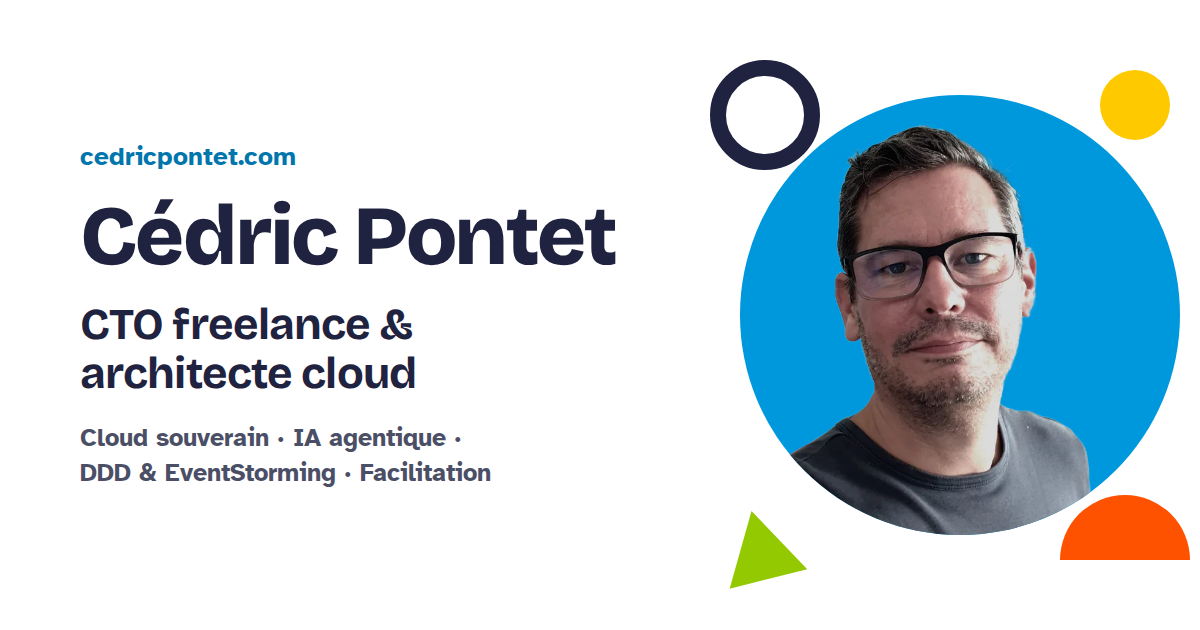
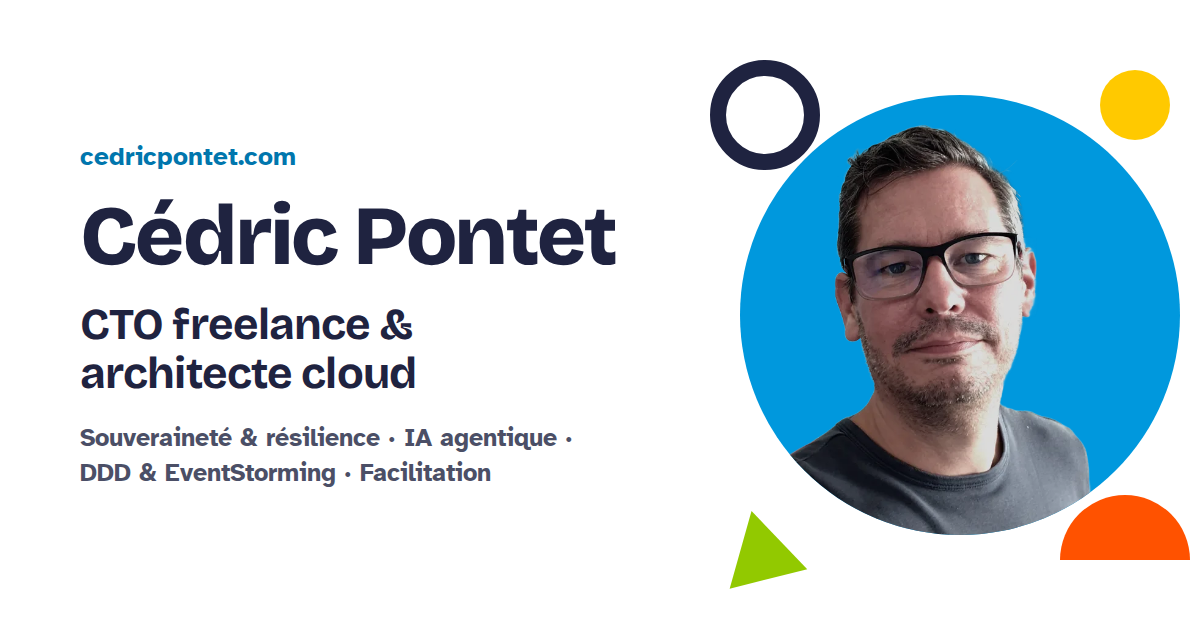
content: sovereignty & resilience wording, factory on About, Service JSON-LD

Changed region(s): [[0.0617, 0.6635, 0.4625, 0.7238]]

diff --git a/src/lib/content/experience.ts b/src/lib/content/experience.ts
@@ -21,8 +21,8 @@ export const experience: ExperienceItem[] = [
     title: { en: 'Enterprise architect', fr: "Architecte d'entreprise" },
     org: 'EU Publications Office',
     body: {
-      en: 'Sovereign cloud migration of strategic assets, Data Value Chain target architecture with AI and knowledge-graph services, BI@PP on Azure with Bicep. Workshop facilitation and FinOps.',
-      fr: "Migration d'actifs stratégiques vers un cloud souverain, architecture cible de la Data Value Chain avec services d'IA et de graphes de connaissances, BI@PP sur Azure avec Bicep. Facilitation d'ateliers et FinOps.",
+      en: 'Sovereign cloud migration of strategic assets, an agentic software factory for the rewrite of a large public web platform, Data Value Chain target architecture with AI and knowledge-graph services, BI@PP on Azure with Bicep. Workshop facilitation and FinOps.',
+      fr: "Migration d'actifs stratégiques vers un cloud souverain, software factory agentique pour la refonte d'une grande plateforme web publique, architecture cible de la Data Value Chain avec services d'IA et de graphes de connaissances, BI@PP sur Azure avec Bicep. Facilitation d'ateliers et FinOps.",
     },
   },
   {
@@ -30,8 +30,8 @@ export const experience: ExperienceItem[] = [
     title: { en: 'CTO', fr: 'CTO' },
     org: 'Agile Partner',
     body: {
-      en: 'Technical strategy, technical excellence and new service offers. Before that, head of the software factory (2017–2019) and delivery manager (2015–2017).',
-      fr: 'Stratégie technique, excellence technique et nouvelles offres de services. Auparavant, responsable de la software factory (2017–2019) et delivery manager (2015–2017).',
+      en: 'Technical strategy, technical excellence and new service offers. Member of the AI task force. Before that, head of the software factory (2017–2019) and delivery manager (2015–2017).',
+      fr: 'Stratégie technique, excellence technique et nouvelles offres de services. Membre de la task force IA. Auparavant, responsable de la software factory (2017–2019) et delivery manager (2015–2017).',
     },
   },
   {
@@ -81,7 +81,7 @@ export const expertise: Expertise[] = [
   },
   {
     tint: 'sky',
-    title: { en: 'Cloud & sovereign cloud', fr: 'Cloud & cloud souverain' },
+    title: { en: 'Cloud, sovereignty & resilience', fr: 'Cloud, souveraineté & résilience' },
     body: {
       en: 'Azure, AWS, Clever Cloud, European sovereign cloud, Bicep, FinOps. Target architectures for the EU Publications Office and the European Parliament.',
       fr: "Azure, AWS, Clever Cloud, cloud souverain européen, Bicep, FinOps. Architectures cibles pour l'Office des publications de l'UE et le Parlement européen.",

diff --git a/src/lib/i18n/fr.ts b/src/lib/i18n/fr.ts
@@ -4,7 +4,7 @@ export const fr: typeof en = {
   meta: {
     title: 'Cédric Pontet — CTO freelance & architecte cloud',
     description:
-      'CTO freelance et architecte cloud au Luxembourg. Cloud souverain, livraison logicielle agentique, Domain-Driven Design & EventStorming, et facilitation.',
+      'CTO freelance et architecte cloud au Luxembourg. Souveraineté et résilience, livraison logicielle agentique, Domain-Driven Design & EventStorming, et facilitation.',
   },
   nav: {
     services: 'Services',
@@ -28,7 +28,7 @@ export const fr: typeof en = {
     badge: 'Freelance · À distance · Luxembourg & UE',
     titleStart: 'De la technologie sérieuse, construite par des équipes qui aiment',
     titleHighlight: 'leur travail',
-    lead: "Je suis Cédric, CTO freelance et architecte cloud avec 25 ans d'expérience. J'aide les organisations européennes sur le cloud souverain, la livraison logicielle agentique et la conception de domaines clairs, et j'anime les ateliers qui embarquent tout le monde.",
+    lead: "Je suis Cédric, CTO freelance et architecte cloud avec 25 ans d'expérience. J'aide les organisations européennes sur la souveraineté et la résilience, la livraison logicielle agentique et la conception de domaines clairs, et j'anime les ateliers qui embarquent tout le monde.",
     ctaContact: 'Démarrer une conversation',
     ctaCv: 'Télécharger le CV',
     availability: 'Disponible pour des missions à partir de [MOIS ANNÉE]',

diff --git a/src/lib/i18n/en.ts b/src/lib/i18n/en.ts
@@ -2,7 +2,7 @@ export const en = {
   meta: {
     title: 'Cédric Pontet — Freelance CTO & cloud architect',
     description:
-      'Freelance CTO and cloud architect in Luxembourg. Sovereign cloud, agentic software delivery, Domain-Driven Design & EventStorming, and facilitation.',
+      'Freelance CTO and cloud architect in Luxembourg. Sovereignty and resilience, agentic software delivery, Domain-Driven Design & EventStorming, and facilitation.',
   },
   nav: {
     services: 'Services',
@@ -26,7 +26,7 @@ export const en = {
     badge: 'Freelance · Remote · Luxembourg & EU',
     titleStart: 'Serious technology, built by teams that enjoy',
     titleHighlight: 'the work',
-    lead: "I'm Cédric, a freelance CTO and cloud architect with 25 years in software. I help European organisations with sovereign cloud, agentic software delivery and clear domain design, and I facilitate the workshops that get everyone on board.",
+    lead: "I'm Cédric, a freelance CTO and cloud architect with 25 years in software. I help European organisations with sovereignty and resilience, agentic software delivery and clear domain design, and I facilitate the workshops that get everyone on board.",
     ctaContact: 'Start a conversation',
     ctaCv: 'Download CV',
     availability: 'Available for missions from [MONTH YEAR]',

diff --git a/src/lib/seo.ts b/src/lib/seo.ts
@@ -1,6 +1,6 @@
 import type { Post } from './blog.js';
 import { CONTACT_EMAIL, GITHUB_URL, LINKEDIN_URL, SITE_ORIGIN } from './config.js';
-import { services } from './content/profile.js';
+import { type Service, services } from './content/profile.js';
 import { type Lang, localize, t } from './i18n.js';
 
 /** Static share image per language, rendered by `bun run og`. */
@@ -29,6 +29,20 @@ export function personLd(lang: Lang, image: string) {
     knowsAbout: services.map((s) => s.title[lang]),
     knowsLanguage: ['fr', 'en'],
     sameAs: [LINKEDIN_URL, GITHUB_URL],
+  };
+}
+
+/** schema.org Service for a service page. */
+export function serviceLd(service: Service, description: string, lang: Lang) {
+  return {
+    '@context': 'https://schema.org',
+    '@type': 'Service',
+    name: service.title[lang],
+    serviceType: service.title[lang],
+    description,
+    url: SITE_ORIGIN + localize(`/services/${service.slug}`, lang),
+    areaServed: 'Europe',
+    provider: { '@type': 'Person', '@id': PERSON_ID, name: 'Cédric Pontet', url: SITE_ORIGIN },
   };
 }
 

diff --git a/src/routes/[[lang=lang]]/services/[slug]/+page.svelte b/src/routes/[[lang=lang]]/services/[slug]/+page.svelte
@@ -14,6 +14,7 @@ import {
 } from '#lib/components/styles.js';
 import { serviceHref } from '#lib/content/service-pages.js';
 import { localize } from '#lib/i18n.js';
+import { serviceLd } from '#lib/seo.js';
 import type { PageProps } from './$types';
 
 let { data }: PageProps = $props();
@@ -31,7 +32,12 @@ const topic = $derived.by(() => {
 });
 </script>
 
-<Seo {lang} title="{title} — Cédric Pontet" description={page.lead[lang]} />
+<Seo
+  {lang}
+  title="{title} — Cédric Pontet"
+  description={page.lead[lang]}
+  jsonLd={serviceLd(service, page.lead[lang], lang)}
+/>
 
 <!-- Hero -->
 <section class="mx-auto flex max-w-6xl flex-col gap-7 px-7 pt-6 pb-18">

diff --git a/scripts/build-og.ts b/scripts/build-og.ts
@@ -21,12 +21,12 @@ const variants = [
   {
     file: 'static/og/default-en.png',
     role: ['Freelance CTO &', 'cloud architect'],
-    topics: ['Sovereign cloud', 'Agentic AI', 'DDD & EventStorming', 'Facilitation'],
+    topics: ['Sovereignty & resilience', 'Agentic AI', 'DDD & EventStorming', 'Facilitation'],
   },
   {
     file: 'static/og/default-fr.png',
     role: ['CTO freelance &', 'architecte cloud'],
-    topics: ['Cloud souverain', 'IA agentique', 'DDD & EventStorming', 'Facilitation'],
+    topics: ['Souveraineté & résilience', 'IA agentique', 'DDD & EventStorming', 'Facilitation'],
   },
 ];
 

diff --git a/CLAUDE.md b/CLAUDE.md
@@ -1,7 +1,7 @@
 # cedricpontet.com
 
 Personal / freelance website of Cédric Pontet — freelance CTO, cloud architect,
-sovereign cloud specialist and agentic AI (coding agents, software factory) consultant.
+sovereignty & resilience specialist and agentic AI (coding agents, software factory) consultant.
 Fully remote, based in Luxembourg, working for EU institutions, public sector and private clients.
 
 ## Goals
@@ -135,7 +135,7 @@ resources/                   # SOURCE material only (docx CVs, bio, raw photos) 
   certifications, dates or results. If something is missing, leave a `TODO(cedric):` comment.
 - `resources/` contains personal data (date of birth, full CVs). Never publish birth date,
   and never copy docx files into `static/`.
-- Positioning order: Freelance CTO · Cloud & Sovereign Cloud Architect · **DDD & EventStorming**
+- Positioning order: Freelance CTO · Cloud Architect, Sovereignty & Resilience · **DDD & EventStorming**
   · Agentic AI / Software Factory · Facilitator.
   DDD & EventStorming is a strong expertise (since 2008: DDD/CQRS/event sourcing architectures,
   EventStorming facilitation, KanDDDinsky speaker, Greg Young workshops, EventStorming Summit).
@@ -231,7 +231,8 @@ Drafts are excluded from the production build. Slugs are kebab-case, file name =
 - Open Graph image per language (static for now): `static/og/default-{en,fr}.png`, rendered by
   `bun run og` (`scripts/build-og.ts`). All head tags go through `#lib/components/Seo.svelte`.
 - `sitemap.xml` and `rss.xml` (per language) generated as prerendered endpoints.
-- JSON-LD `Person` on home/about, `BlogPosting` on posts (builders in `src/lib/seo.ts`).
+- JSON-LD `Person` on home/about, `Service` on service pages, `BlogPosting` on posts
+  (builders in `src/lib/seo.ts`).
 
 ## Deployment
 

diff --git a/BACKLOG.md b/BACKLOG.md
@@ -2,7 +2,6 @@
   - Availability date: "Available for missions from [MONTH YEAR]" (src/lib/i18n/en.ts, fr.ts)
   - Legal notice: legal form, RCS number, LU VAT number, business permit number,
     email retention period (src/routes/[[lang=lang]]/legal/+page.svelte)
-- Service pages: all seven done on branch feat/service-pages (template in CLAUDE.md); open the PR
 - Blog articles
   - EventStorming era journey (strategic DDD, cinema 1960s to 2000s): second video post
   - Sovereignty DAS
